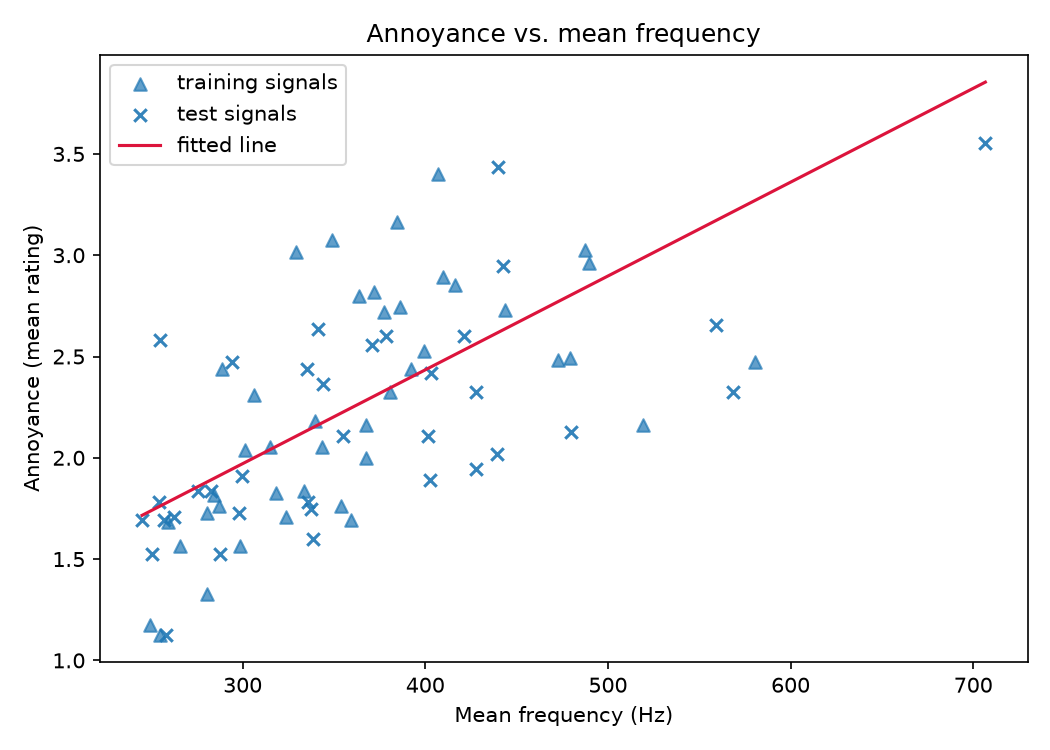
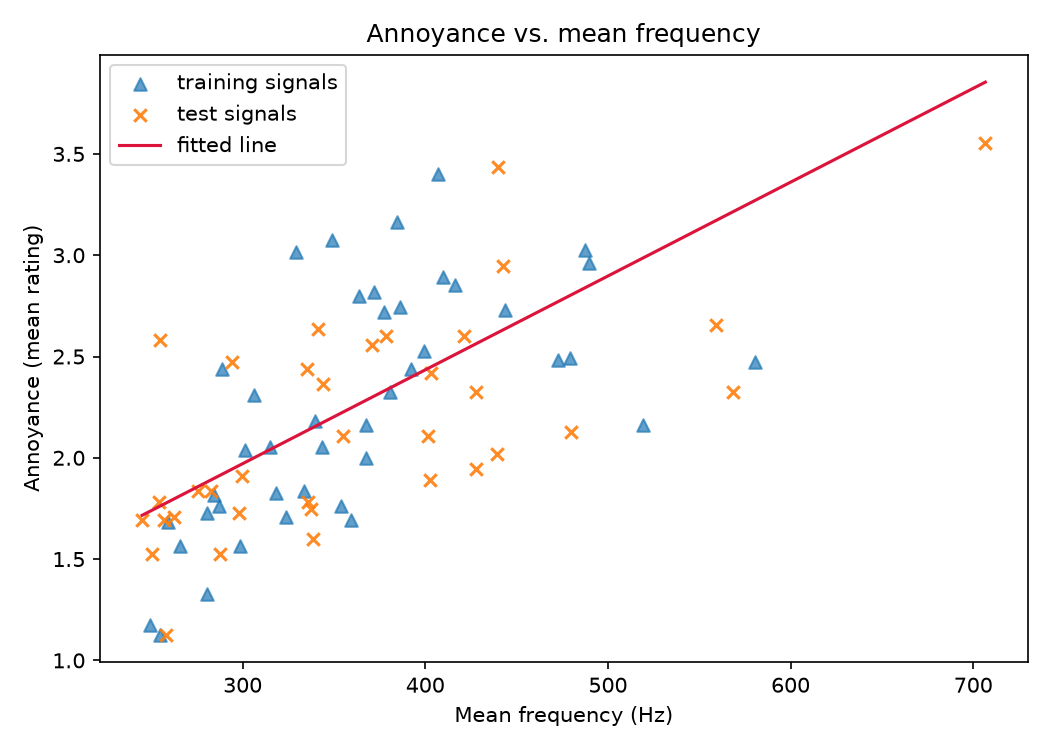
Use blue triangles for training and orange crosses for test signals

diff --git a/src/model.py b/src/model.py
@@ -87,10 +87,10 @@ def make_plots(df: pd.DataFrame, res: dict, out_dir: str | Path) -> list[Path]:
     # 1) Data + fitted line; training and test signals drawn with different shapes
     fig, ax = plt.subplots(figsize=(7, 5))
 
-    # Triangles: the signals the line was actually fitted on
+    # Blue triangles: the signals the line was actually fitted on
     ax.scatter(res["X_train"].ravel(), res["y_train"], marker="^", color="tab:blue", alpha=0.7, label="training signals")
-    # Crosses: the held-out signals, shown but not used for fitting
-    ax.scatter(res["X_test"].ravel(), res["y_test"], marker="x", color="tab:blue", alpha=0.9, label="test signals")
+    # Orange crosses: the held-out signals, shown but not used for fitting
+    ax.scatter(res["X_test"].ravel(), res["y_test"], marker="x", color="tab:orange", alpha=0.9, label="test signals")
     # Evaluate the fitted line across the frequency range to draw it smoothly
     xs = np.linspace(df[FEATURE_COL].min(), df[FEATURE_COL].max(), 100).reshape(-1, 1)
     ax.plot(xs, model.predict(xs), color="crimson", label="fitted line")
